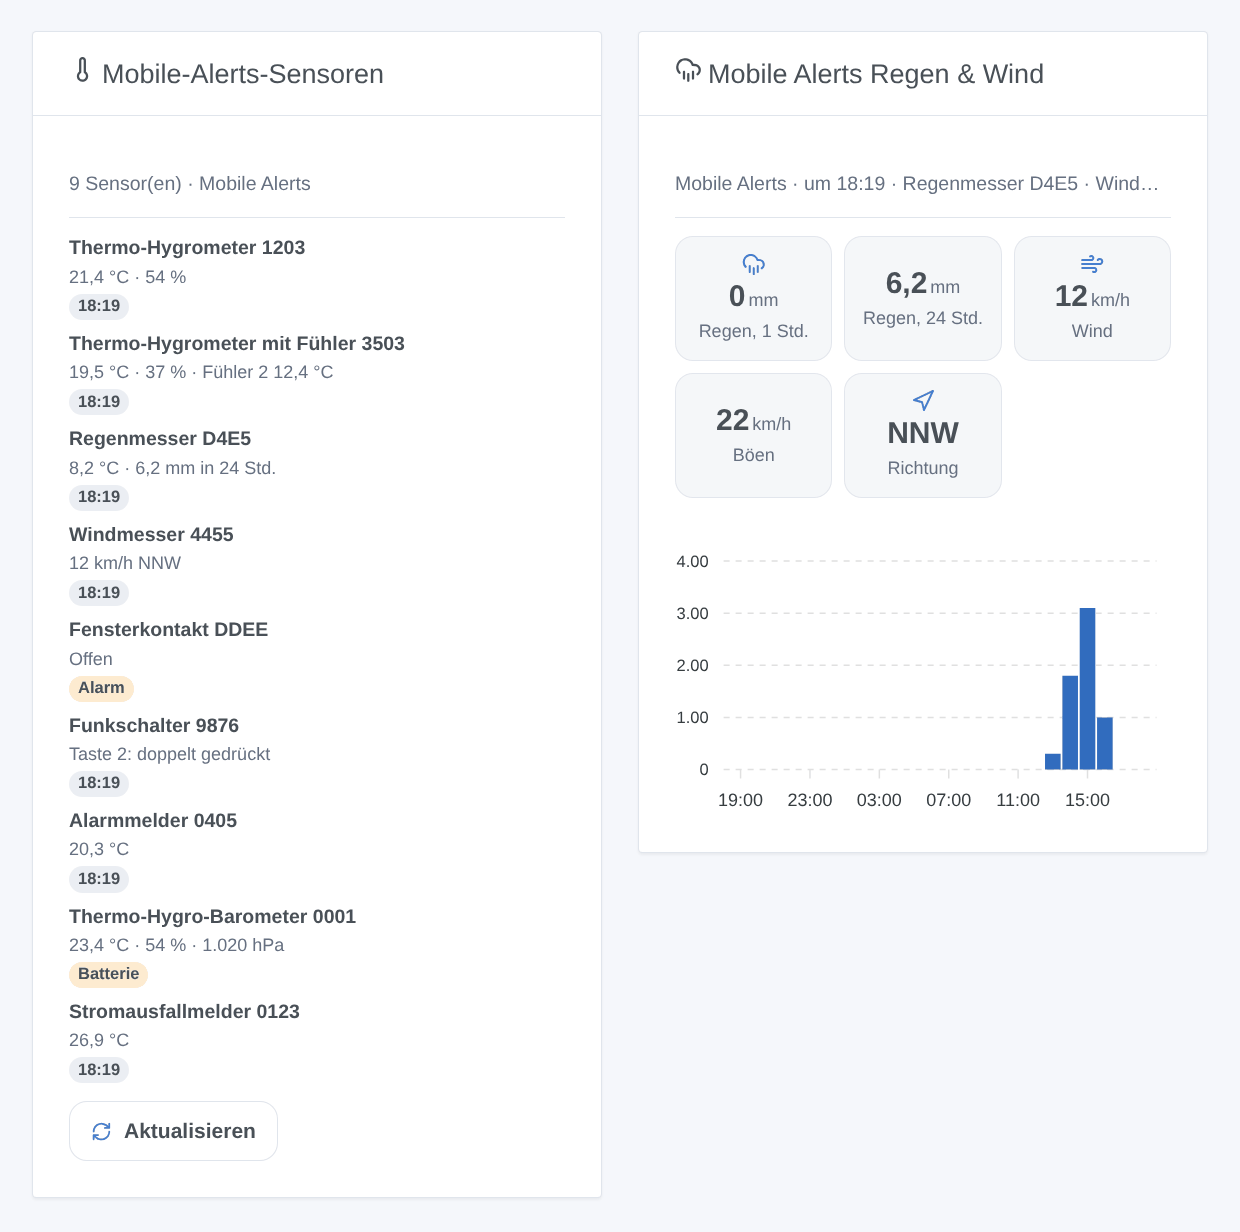
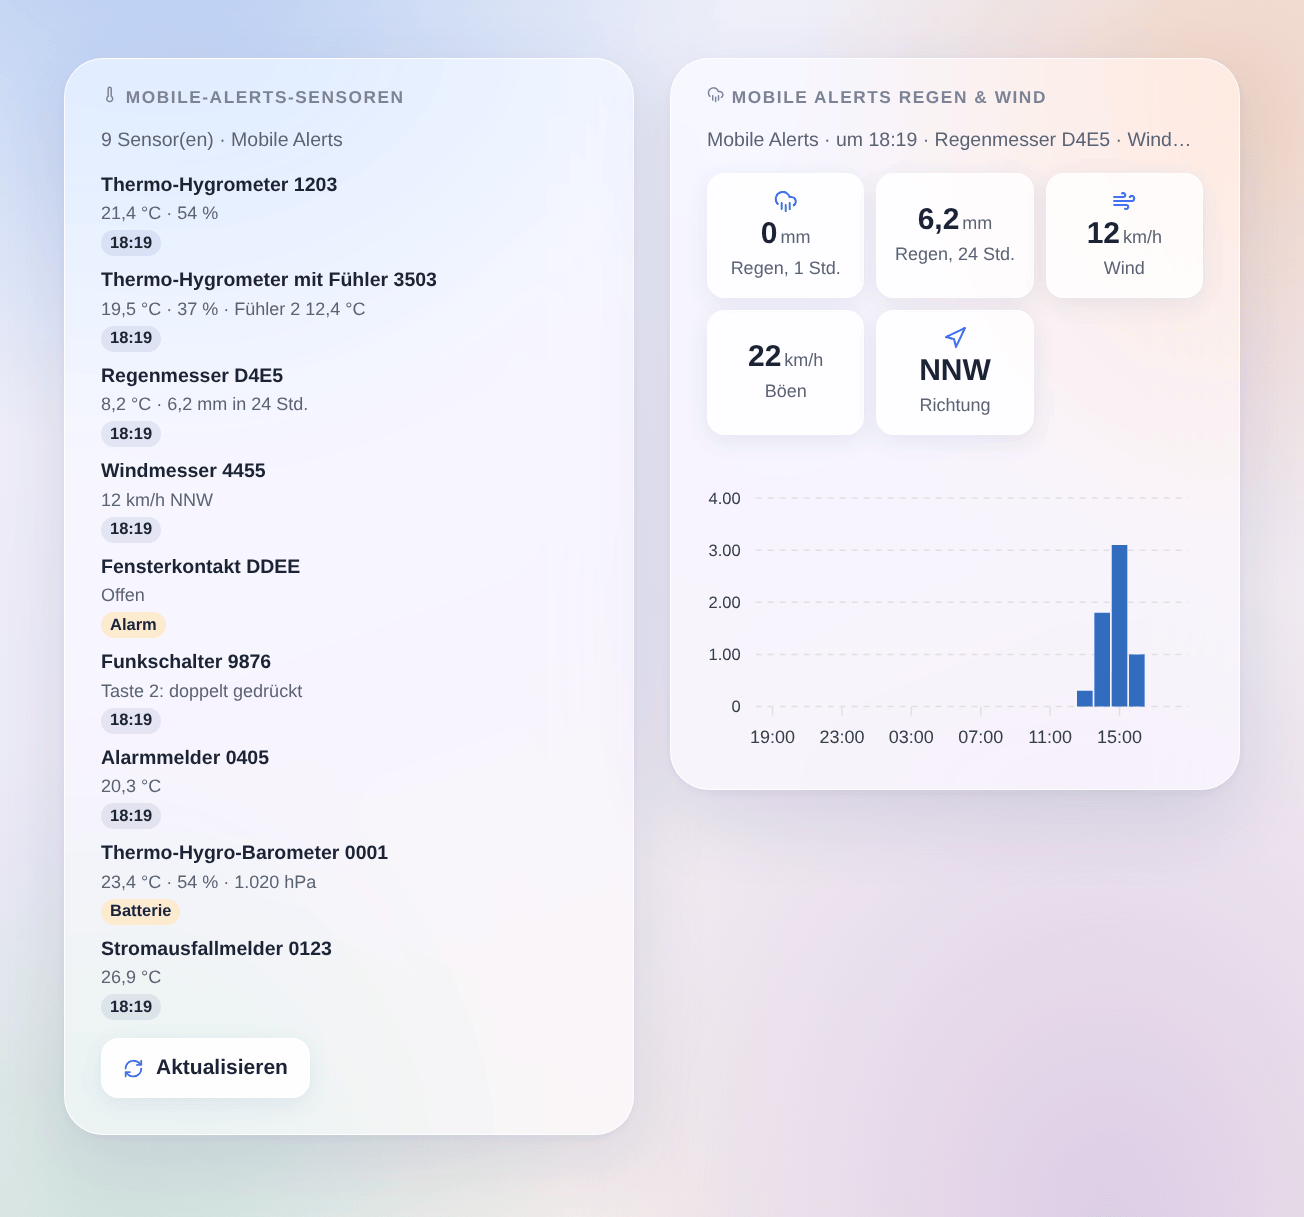
docs: widget illustrations in the Gladys 5 look (Horizon glass dashboard)
The illustrations used the Gladys v4 card look. render.sh now takes the styles of the current Gladys front, adds the Horizon dashboard theme (glass cards, uppercase title, default scene) and quantizes with libimagequant so the small colored dots survive the gradient.

diff --git a/docs/illustrations/index.html b/docs/illustrations/index.html
@@ -5,10 +5,25 @@
     <link rel="stylesheet" href="vendor/theme/package/dashboard.css" />
     <link rel="stylesheet" href="widget.css" />
     <link rel="stylesheet" href="dark-mode.css" />
+    <link rel="stylesheet" href="horizon.css" />
     <style>
       body {
-        background: #f5f7fb;
-        padding: 24px;
+        background: #fff;
+        margin: 0;
+        padding: 8px;
+      }
+      /* the page header of the theme shares the class name of the widget
+         header slot (a CSS module class in Gladys): keep it off the widget */
+      .card .header {
+        padding: 0;
+        background: none;
+        border-bottom: 0;
+      }
+      /* the dashboard scene, a margin around the cards for their shadow */
+      #stage {
+        display: inline-block;
+        overflow: hidden;
+        padding: 40px 44px 56px;
       }
       #row {
         display: flex;
@@ -31,7 +46,7 @@
     <script src="data.js"></script>
   </head>
   <body>
-    <div id="row"></div>
+    <div id="stage" class="glass-theme glassScene"><div id="row"></div></div>
     <script>
       if (new URLSearchParams(location.search).get('theme') === 'dark') {
         document.documentElement.classList.add('dark-mode');
